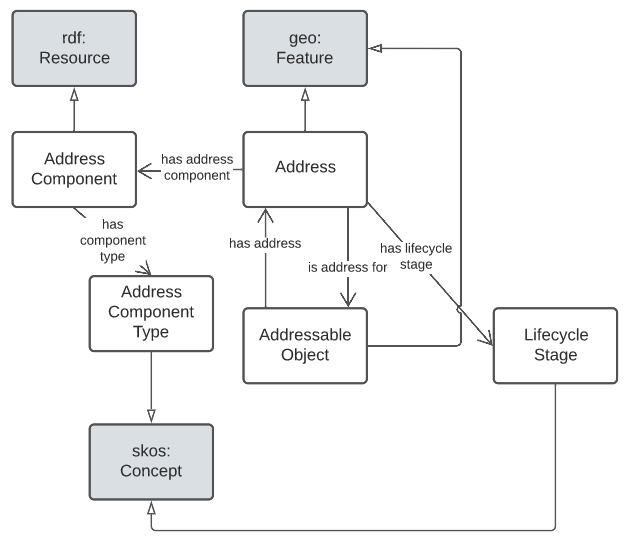
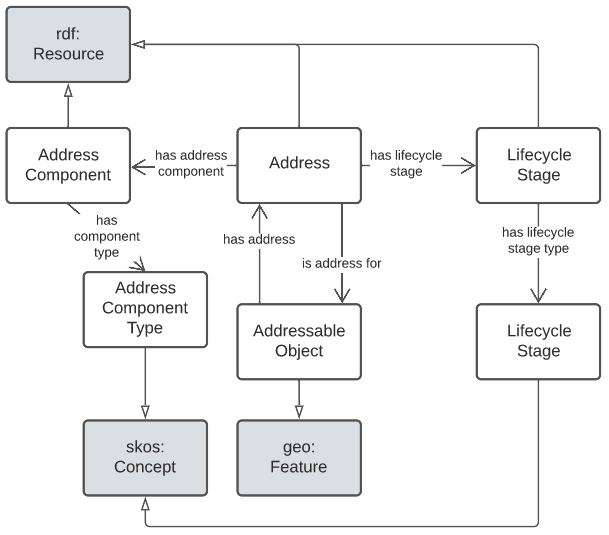
AddrObg hasGeometry

Changed region(s): [[0.0, 0.0, 0.9984, 0.9869], [0.8736, 0.0897, 0.9048, 0.2393], [0.5928, 0.3888, 0.624, 0.4187]]

diff --git a/model.html b/model.html
@@ -729,39 +729,45 @@ flexibility" - things for Strategy implementers to aim for - "Guiding Principles
 <div class="paragraph data-line-103">
 <p>This model defines some Classes and Properties and also requires certain existing Cs &amp; Ps for reuse. All Cs &amp; Ps in this model, both defined and reused, are listed here with an indication of where the element is difined given in the <em>Is Defined By</em> field.</p>
 </div>
-<div id="fig-model-overview" class="imageblock data-line-107">
+<div id="fig-overview" class="imageblock data-line-107">
 <div class="content">
 <img src="img/overview.png" alt="overview">
 </div>
 <div class="title">Figure 2. An informal Model Overview diagram showing the major elements of this model</div>
 </div>
-<div class="sect2 data-line-110">
+<div id="fig-upper-classes" class="imageblock data-line-111">
+<div class="content">
+<img src="img/upper-classes.png" alt="upper classes">
+</div>
+<div class="title">Figure 3. Mapping of the main model classes to common Semantic Web classes</div>
+</div>
+<div class="sect2 data-line-114">
 <h3 id="Classes"><a class="anchor" href="#Classes"></a>4.1. Classes</h3>
-<div class="ulist data-line-112">
+<div class="ulist data-line-116">
 <ul>
-<li class="data-line-112">
+<li class="data-line-116">
 <p><a href="#Address">Address</a></p>
 </li>
-<li class="data-line-113">
+<li class="data-line-117">
 <p><a href="#AddressableObject">Addressable Object</a></p>
 </li>
-<li class="data-line-114">
+<li class="data-line-118">
 <p><a href="#AddressComponent">Address Component</a></p>
 </li>
-<li class="data-line-115">
+<li class="data-line-119">
 <p><a href="#AddressComponentType">Address Component Type</a></p>
 </li>
-<li class="data-line-116">
+<li class="data-line-120">
 <p><a href="#AddressLifecycleStage">Address Lifecycle Stage</a></p>
 </li>
-<li class="data-line-117">
+<li class="data-line-121">
 <p><a href="#AddressLifecycleStageType">Address Lifecycle StageType</a></p>
 </li>
 </ul>
 </div>
-<div class="sect3 data-line-120">
+<div class="sect3 data-line-124">
 <h4 id="Address"><a class="anchor" href="#Address"></a>4.1.1. Address</h4>
-<table class="tableblock frame-all grid-all stripes-even stretch data-line-123">
+<table class="tableblock frame-all grid-all stripes-even stretch data-line-127">
 <colgroup>
 <col style="width: 25%;">
 <col style="width: 75%;">
@@ -850,9 +856,9 @@ ex:addr-1
 </tbody>
 </table>
 </div>
-<div class="sect3 data-line-176">
+<div class="sect3 data-line-180">
 <h4 id="AddressableObject"><a class="anchor" href="#AddressableObject"></a>4.1.2. Addressable Object</h4>
-<table class="tableblock frame-all grid-all stripes-even stretch data-line-179">
+<table class="tableblock frame-all grid-all stripes-even stretch data-line-183">
 <colgroup>
 <col style="width: 25%;">
 <col style="width: 75%;">
@@ -920,9 +926,9 @@ ex:addre-2 addr:isAddressFor ex:admin-area-z .</code></pre>
 </tbody>
 </table>
 </div>
-<div class="sect3 data-line-212">
+<div class="sect3 data-line-216">
 <h4 id="AddressComponent"><a class="anchor" href="#AddressComponent"></a>4.1.3. Address Component</h4>
-<table class="tableblock frame-all grid-all stripes-even stretch data-line-215">
+<table class="tableblock frame-all grid-all stripes-even stretch data-line-219">
 <colgroup>
 <col style="width: 25%;">
 <col style="width: 75%;">
@@ -999,9 +1005,9 @@ ex:addre-2 addr:isAddressFor ex:admin-area-z .</code></pre>
 </tbody>
 </table>
 </div>
-<div class="sect3 data-line-258">
+<div class="sect3 data-line-262">
 <h4 id="AddressComponentType"><a class="anchor" href="#AddressComponentType"></a>4.1.4. Address Component Type</h4>
-<table class="tableblock frame-all grid-all stripes-even stretch data-line-261">
+<table class="tableblock frame-all grid-all stripes-even stretch data-line-265">
 <colgroup>
 <col style="width: 25%;">
 <col style="width: 75%;">
@@ -1077,15 +1083,15 @@ ex:addre-2 addr:isAddressFor ex:admin-area-z .</code></pre>
 </tbody>
 </table>
 </div>
-<div class="sect3 data-line-302">
+<div class="sect3 data-line-306">
 <h4 id="AddressLifecycleStage"><a class="anchor" href="#AddressLifecycleStage"></a>4.1.5. Address Lifecycle Stage</h4>
-<div id="fig-lifecycle-stages" class="imageblock data-line-306">
+<div id="fig-lifecycle-stages" class="imageblock data-line-310">
 <div class="content">
 <img src="img/lifecycle-stages.png" alt="lifecycle stages">
 </div>
-<div class="title">Figure 3. An example Address, <code>QLD186906</code>, with Lifecycle Stages</div>
+<div class="title">Figure 4. An example Address, <code>QLD186906</code>, with Lifecycle Stages</div>
 </div>
-<table class="tableblock frame-all grid-all stripes-even stretch data-line-309">
+<table class="tableblock frame-all grid-all stripes-even stretch data-line-313">
 <colgroup>
 <col style="width: 25%;">
 <col style="width: 75%;">
@@ -1170,9 +1176,9 @@ addrls:proposed
 </tbody>
 </table>
 </div>
-<div class="sect3 data-line-360">
+<div class="sect3 data-line-364">
 <h4 id="AddressLifecycleStageType"><a class="anchor" href="#AddressLifecycleStageType"></a>4.1.6. Address Lifecycle Stage Type</h4>
-<table class="tableblock frame-all grid-all stripes-even stretch data-line-363">
+<table class="tableblock frame-all grid-all stripes-even stretch data-line-367">
 <colgroup>
 <col style="width: 25%;">
 <col style="width: 75%;">
@@ -1238,33 +1244,33 @@ ex:addr-1
 </table>
 </div>
 </div>
-<div class="sect2 data-line-393">
+<div class="sect2 data-line-397">
 <h3 id="Properties"><a class="anchor" href="#Properties"></a>4.2. Properties</h3>
-<div class="ulist data-line-395">
+<div class="ulist data-line-399">
 <ul>
-<li class="data-line-395">
+<li class="data-line-399">
 <p><a href="#isAddressFor">is address for</a></p>
 </li>
-<li class="data-line-396">
+<li class="data-line-400">
 <p><a href="#hasAddress">has address</a></p>
 </li>
-<li class="data-line-397">
+<li class="data-line-401">
 <p><a href="#hasAddressComponent">has address component</a></p>
 </li>
-<li class="data-line-398">
+<li class="data-line-402">
 <p><a href="#hasAddressComponentType">has address component type</a></p>
 </li>
-<li class="data-line-399">
+<li class="data-line-403">
 <p><a href="#hasLifecycleStage">has lifecycle stage </a></p>
 </li>
-<li class="data-line-400">
+<li class="data-line-404">
 <p><a href="#hasLifecycleStageType">has lifecycle stage type</a></p>
 </li>
 </ul>
 </div>
-<div class="sect3 data-line-403">
+<div class="sect3 data-line-407">
 <h4 id="isAddressFor"><a class="anchor" href="#isAddressFor"></a>4.2.1. is address for</h4>
-<table class="tableblock frame-all grid-all stripes-even stretch data-line-406">
+<table class="tableblock frame-all grid-all stripes-even stretch data-line-410">
 <colgroup>
 <col style="width: 25%;">
 <col style="width: 75%;">
@@ -1328,9 +1334,9 @@ ex:addr-1
 </tbody>
 </table>
 </div>
-<div class="sect3 data-line-431">
+<div class="sect3 data-line-435">
 <h4 id="hasAddress"><a class="anchor" href="#hasAddress"></a>4.2.2. has address</h4>
-<table class="tableblock frame-all grid-all stripes-even stretch data-line-434">
+<table class="tableblock frame-all grid-all stripes-even stretch data-line-438">
 <colgroup>
 <col style="width: 25%;">
 <col style="width: 75%;">
@@ -1394,9 +1400,9 @@ ex:addr-1
 </tbody>
 </table>
 </div>
-<div class="sect3 data-line-462">
+<div class="sect3 data-line-466">
 <h4 id="hasAddressComponent"><a class="anchor" href="#hasAddressComponent"></a>4.2.3. has address component</h4>
-<table class="tableblock frame-all grid-all stripes-even stretch data-line-465">
+<table class="tableblock frame-all grid-all stripes-even stretch data-line-469">
 <colgroup>
 <col style="width: 25%;">
 <col style="width: 75%;">
@@ -1454,9 +1460,9 @@ ex:addr-1
 </tbody>
 </table>
 </div>
-<div class="sect3 data-line-490">
+<div class="sect3 data-line-494">
 <h4 id="hasAddressComponentType"><a class="anchor" href="#hasAddressComponentType"></a>4.2.4. has address component type</h4>
-<table class="tableblock frame-all grid-all stripes-even stretch data-line-493">
+<table class="tableblock frame-all grid-all stripes-even stretch data-line-497">
 <colgroup>
 <col style="width: 25%;">
 <col style="width: 75%;">
@@ -1515,9 +1521,9 @@ ex:addr-1
 </tbody>
 </table>
 </div>
-<div class="sect3 data-line-519">
+<div class="sect3 data-line-523">
 <h4 id="hasLifecycleStage"><a class="anchor" href="#hasLifecycleStage"></a>4.2.5. has lifecycle stage</h4>
-<table class="tableblock frame-all grid-all stripes-even stretch data-line-522">
+<table class="tableblock frame-all grid-all stripes-even stretch data-line-526">
 <colgroup>
 <col style="width: 25%;">
 <col style="width: 75%;">
@@ -1587,9 +1593,9 @@ ex:addr-1
 </tbody>
 </table>
 </div>
-<div class="sect3 data-line-559">
+<div class="sect3 data-line-563">
 <h4 id="hasLifecycleStageType"><a class="anchor" href="#hasLifecycleStageType"></a>4.2.6. has lifecycle stage type</h4>
-<table class="tableblock frame-all grid-all stripes-even stretch data-line-562">
+<table class="tableblock frame-all grid-all stripes-even stretch data-line-566">
 <colgroup>
 <col style="width: 25%;">
 <col style="width: 75%;">
@@ -1652,45 +1658,45 @@ ex:addr-1
 </div>
 </div>
 </div>
-<div class="sect1 data-line-590">
+<div class="sect1 data-line-594">
 <h2 id="_annex_x_something"><a class="anchor" href="#_annex_x_something"></a>Annex X: Something</h2>
 <div class="sectionbody">
 
 </div>
 </div>
-<div class="sect1 data-line-592">
+<div class="sect1 data-line-596">
 <h2 id="_references"><a class="anchor" href="#_references"></a>References</h2>
 <div class="sectionbody">
-<div class="ulist data-line-594">
+<div class="ulist data-line-598">
 <ul>
-<li class="data-line-594">
+<li class="data-line-598">
 <p><a id="GEO"></a> [GEO] Open Geospatial Consortium, <em>OGC GeoSPARQL - A Geographic Query Language for RDF Data, Version 1.1</em> (2021). OGC Implementation Specification. <a href="http://www.opengis.net/doc/IS/geosparql/1.1" class="undefined" data-href="http://www.opengis.net/doc/IS/geosparql/1.1">http://www.opengis.net/doc/IS/geosparql/1.1</a></p>
 </li>
-<li class="data-line-596">
+<li class="data-line-600">
 <p><a id="ISO19156"></a> International Organization for Standardization, <em>ISO 19156: Geographic information — Observations and measurements</em> (2011)</p>
 </li>
-<li class="data-line-598">
+<li class="data-line-602">
 <p><a id="ISO19160-1"></a> [ISO19160-1] International Organization for Standardization, <em>ISO 19160-1: Addressing Part 1: Conceptual model</em> (2015). <a href="https://www.iso.org/standard/61710.html" class="undefined" data-href="https://www.iso.org/standard/61710.html">https://www.iso.org/standard/61710.html</a></p>
 </li>
-<li class="data-line-600">
+<li class="data-line-604">
 <p><a id="OWL"></a> World Wide Web Consortium, <em>OWL 2 Web Ontology Language Document Overview (Second Edition)</em>, W3C Recommendation (11 December 2012). <a href="https://www.w3.org/TR/owl2-overview/" class="undefined" data-href="https://www.w3.org/TR/owl2-overview/">https://www.w3.org/TR/owl2-overview/</a></p>
 </li>
-<li class="data-line-602">
+<li class="data-line-606">
 <p><a id="PROF"></a> World Wide Web Consortium, <em>The Profiles Vocabulary</em>, W3C Working Group Note (18 December 2019). <a href="https://www.w3.org/TR/dx-prof/" class="undefined" data-href="https://www.w3.org/TR/dx-prof/">https://www.w3.org/TR/dx-prof/</a></p>
 </li>
-<li class="data-line-604">
+<li class="data-line-608">
 <p><a id="PROV"></a> World Wide Web Consortium, <em>The Profiles Vocabulary</em>, W3C Working Group Note (18 December 2019). <a href="https://www.w3.org/TR/dx-prof/" class="undefined" data-href="https://www.w3.org/TR/dx-prof/">https://www.w3.org/TR/dx-prof/</a></p>
 </li>
-<li class="data-line-606">
+<li class="data-line-610">
 <p><a id="SDO"></a> W3C Schema.org Community Group, <em>schema.org</em>. Community ontology (2015). <a href="https://schema.org" class="undefined" data-href="https://schema.org">https://schema.org</a></p>
 </li>
-<li class="data-line-608">
+<li class="data-line-612">
 <p><a id="SSN"></a> World Wide Web Consortium, <em>Semantic Sensor Network Ontology</em>, W3C Recommendation (19 October 2017). <a href="https://www.w3.org/TR/vocab-ssn/" class="undefined" data-href="https://www.w3.org/TR/vocab-ssn/">https://www.w3.org/TR/vocab-ssn/</a></p>
 </li>
-<li class="data-line-610">
+<li class="data-line-614">
 <p><a id="SKOS"></a> [SKOS] World Wide Web Consortium, <em>SKOS Simple Knowledge Organization System Reference</em>, W3C Recommendation (18 August 2009). <a href="https://www.w3.org/TR/skos-reference/" class="undefined" data-href="https://www.w3.org/TR/skos-reference/">https://www.w3.org/TR/skos-reference/</a></p>
 </li>
-<li class="data-line-612">
+<li class="data-line-616">
 <p><a id="TTL"></a> World Wide Web Consortium, <em>RDF 1.1 Turtle Terse RDF Triple Language</em>, W3C Recommendation (25 February 2014). <a href="https://www.w3.org/TR/turtle/" class="undefined" data-href="https://www.w3.org/TR/turtle/">https://www.w3.org/TR/turtle/</a></p>
 </li>
 </ul>
@@ -1700,7 +1706,7 @@ ex:addr-1
 </div>
 <div id="footer">
 <div id="footer-text">
-Last updated 2022-05-04 07:15:36 01000
+Last updated 2022-05-04 07:29:47 01000
 </div>
 </div>
 </body>
